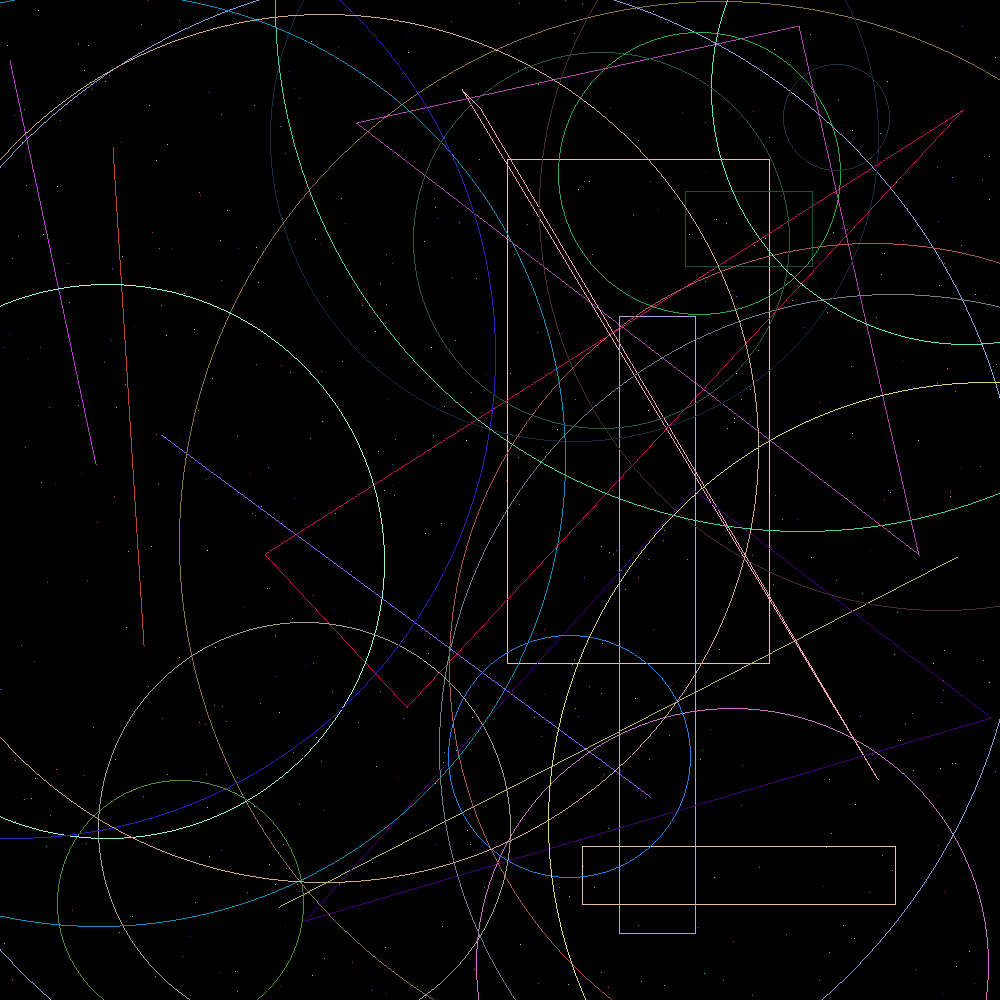
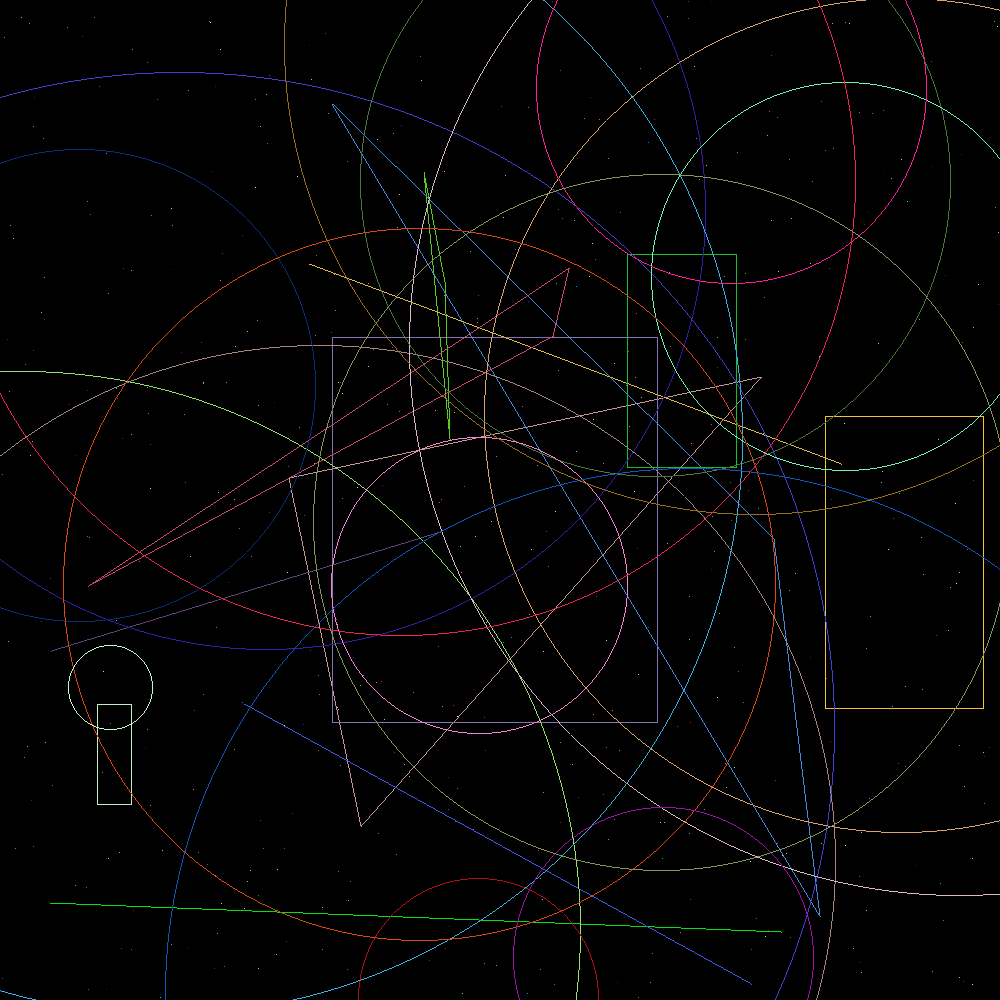
shorter loops for circle drawing, draw four dots in one go

diff --git a/src/geometrical_shapes.rs b/src/geometrical_shapes.rs
@@ -188,31 +188,29 @@ impl Drawable for Circle {
         let random_color = self.color();
 
         // draw upper and lower quarters of circle
-        let (start_x, end_x) = (
-            (self.center.x as f64 - self.radius as f64 / (2.0 as f64).sqrt()) as i32,
-            (self.center.x as f64 + self.radius as f64 / (2.0 as f64).sqrt()) as i32,
-        );
-        for x in start_x..=end_x {
+        let end_x = (self.center.x as f64 + self.radius as f64 / (2.0 as f64).sqrt()) as i32;
+        for x in self.center.x..=end_x {
             let x_now = x - self.center.x;
-            let y1 = ((self.radius.pow(2) - x_now.pow(2)) as f64).sqrt();
-            let y2 = y1 * -1.0;
+            let y1 = ((self.radius.pow(2) - x_now.pow(2)) as f64).sqrt().round() as i32;
+            let y2 = y1 * -1;
 
-            image.display(x, y1.round() as i32 + self.center.y, random_color.clone());
-            image.display(x, y2.round() as i32 + self.center.y, random_color.clone());
+            image.display(x, y1 + self.center.y, random_color.clone());
+            image.display(x, y2 + self.center.y, random_color.clone());
+            image.display(x - x_now * 2, y1 + self.center.y, random_color.clone());
+            image.display(x - x_now * 2, y2 + self.center.y, random_color.clone());
         }
 
         // draw left and right quarters of circle
-        let (start_y, end_y) = (
-            (self.center.y as f64 - self.radius as f64 / (2.0 as f64).sqrt()) as i32,
-            (self.center.y as f64 + self.radius as f64 / (2.0 as f64).sqrt()) as i32,
-        );
-        for y in start_y..=end_y {
+        let end_y = (self.center.y as f64 + self.radius as f64 / (2.0 as f64).sqrt()) as i32;
+        for y in self.center.y..=end_y {
             let y_now = y - self.center.y;
-            let x1 = ((self.radius.pow(2) - y_now.pow(2)) as f64).sqrt();
-            let x2 = x1 * -1.0;
+            let x1 = ((self.radius.pow(2) - y_now.pow(2)) as f64).sqrt().round() as i32;
+            let x2 = x1 * -1;
 
-            image.display(x1.round() as i32 + self.center.x, y, random_color.clone());
-            image.display(x2.round() as i32 + self.center.x, y, random_color.clone());
+            image.display(x1 + self.center.x, y, random_color.clone());
+            image.display(x2 + self.center.x, y, random_color.clone());
+            image.display(x1 + self.center.x, y - y_now * 2, random_color.clone());
+            image.display(x2 + self.center.x, y - y_now * 2, random_color.clone());
         }
     }
 }
